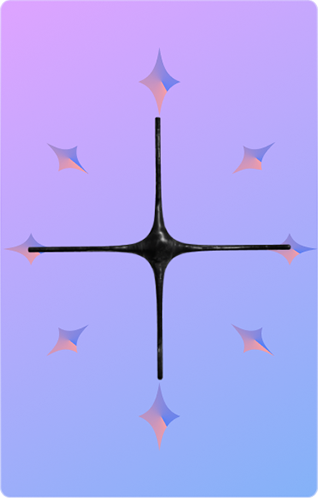
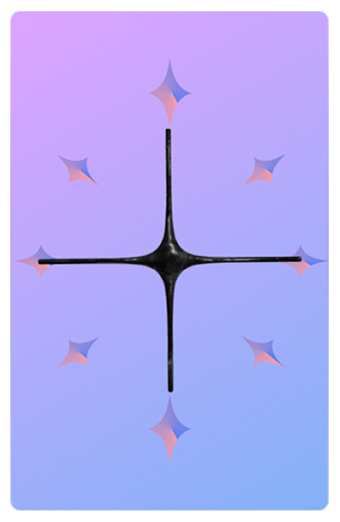
카드 에셋 변경, 중복카드 제거, 카드 컴포넌트 업데이트

diff --git a/src/assets/images/cards/index.ts b/src/assets/images/cards/index.ts
@@ -1,47 +1,71 @@
-import Card1Shadow from "./card1-shadow.png";
 import Card1Normal from "./card1-normal.png";
-import Card2Shadow from "./card2-shadow.png";
 import Card2Normal from "./card2-normal.png";
-import Card3Shadow from "./card3-shadow.png";
 import Card3Normal from "./card3-normal.png";
-import Card4Shadow from "./card4-shadow.png";
 import Card4Normal from "./card4-normal.png";
-import Card5Shadow from "./card5-shadow.png";
 import Card5Normal from "./card5-normal.png";
-import Card6Shadow from "./card6-shadow.png";
 import Card6Normal from "./card6-normal.png";
+
+import Card1Picked1 from "./card1-picked1.png";
+import Card1Picked2 from "./card1-picked2.png";
+import Card1Picked3 from "./card1-picked3.png";
+import Card2Picked1 from "./card2-picked1.png";
+import Card2Picked2 from "./card2-picked2.png";
+import Card2Picked3 from "./card2-picked3.png";
+import Card3Picked1 from "./card3-picked1.png";
+import Card3Picked2 from "./card3-picked2.png";
+import Card3Picked3 from "./card3-picked3.png";
+import Card4Picked1 from "./card4-picked1.png";
+import Card4Picked2 from "./card4-picked2.png";
+import Card4Picked3 from "./card4-picked3.png";
+import Card5Picked1 from "./card5-picked1.png";
+import Card5Picked2 from "./card5-picked2.png";
+import Card5Picked3 from "./card5-picked3.png";
+import Card6Picked1 from "./card6-picked1.png";
+import Card6Picked2 from "./card6-picked2.png";
+import Card6Picked3 from "./card6-picked3.png";
+
+import CardShadow from "./card-shadow.png";
 
 const cards: Record<
   string,
   {
-    shadow: string;
     normal: string;
+    filter: ColorCode;
+    picked: string[];
   }
 > = {
   card1: {
-    shadow: Card1Shadow,
     normal: Card1Normal,
+    filter: "#FF5A0D",
+    picked: [Card1Picked1, Card1Picked2, Card1Picked3],
   },
   card2: {
-    shadow: Card2Shadow,
     normal: Card2Normal,
+    filter: "#ECD34E",
+    picked: [Card2Picked1, Card2Picked2, Card2Picked3],
   },
   card3: {
-    shadow: Card3Shadow,
     normal: Card3Normal,
+    filter: "#0DFF7C",
+    picked: [Card3Picked1, Card3Picked2, Card3Picked3],
   },
   card4: {
-    shadow: Card4Shadow,
     normal: Card4Normal,
+    filter: "#7B61FF",
+    picked: [Card4Picked1, Card4Picked2, Card4Picked3],
   },
   card5: {
-    shadow: Card5Shadow,
     normal: Card5Normal,
+    filter: "#EC0DFF",
+    picked: [Card5Picked1, Card5Picked2, Card5Picked3],
   },
   card6: {
-    shadow: Card6Shadow,
     normal: Card6Normal,
+    filter: "#335BE9",
+    picked: [Card6Picked1, Card6Picked2, Card6Picked3],
   },
 };
 
 export default cards;
+
+export const shadow = CardShadow;

diff --git a/src/components/atoms/PhotoCard/PhotoCard.tsx b/src/components/atoms/PhotoCard/PhotoCard.tsx
@@ -3,6 +3,7 @@ import styled, { keyframes } from "styled-components";
 interface IPhotoCardProps {
   source: string;
   shadow?: string;
+  filter?: ColorCode;
   width?: `${number}vw`;
   activate?: boolean;
   onClick?: () => void;
@@ -11,6 +12,7 @@ interface IPhotoCardProps {
 function PhotoCard({
   source,
   shadow,
+  filter,
   width,
   activate,
   onClick,
@@ -18,7 +20,9 @@ function PhotoCard({
   return (
     <Card width={width} onClick={onClick}>
       <Photo activate={activate} src={source} draggable={false} alt="" />
-      {shadow && activate && <Shadow src={shadow} draggable={false} alt="" />}
+      {shadow && activate && (
+        <Shadow src={shadow} filter={filter} draggable={false} alt="" />
+      )}
     </Card>
   );
 }
@@ -27,12 +31,12 @@ export default PhotoCard;
 
 const Card = styled.div<{ width?: `${number}vw` }>`
   position: relative;
-  width: ${({ width }) => width && "27vw"};
+  width: ${({ width }) => width && "25vw"};
 `;
 
 const Photo = styled.img<{ activate?: boolean }>`
   object-fit: cover;
-  opacity: ${({ activate }) => (activate ? 1 : 0.35)};
+  opacity: ${({ activate }) => (activate ? 1 : 0.5)};
   transition: opacity 500ms;
   height: 100%;
   width: 100%;
@@ -50,13 +54,14 @@ const glow = keyframes`
   }
 `;
 
-const Shadow = styled.img<{ activate?: boolean }>`
+const Shadow = styled.img<{ activate?: boolean; filter?: ColorCode }>`
   object-fit: cover;
   position: absolute;
   inset: 0;
   height: 100%;
   width: 100%;
   animation: ${glow} 2s infinite linear alternate;
+  filter: drop-shadow(0 0 0 ${({ filter }) => filter ?? "#FFF"});
   z-index: -1;
-  pointer-event: none;
+  pointer-events: none;
 `;

diff --git a/src/components/molecules/StarRadioInput/StarRadioInput.tsx b/src/components/molecules/StarRadioInput/StarRadioInput.tsx
@@ -1,6 +1,6 @@
 import { Fragment } from "react";
 import styled from "styled-components";
-import { cards } from "~/assets/images";
+import { cards, cardShadow } from "~/assets/images";
 import PhotoCard from "~/components/atoms/PhotoCard";
 
 interface IStarRadioInputProps<T> {
@@ -30,7 +30,8 @@ function StarRadioInput<T>({
               <PhotoCard
                 key={`${index}::${value}`}
                 source={cards[value].normal}
-                shadow={cards[value].shadow}
+                shadow={cardShadow}
+                filter={cards[value].filter}
                 activate={data === value}
                 onClick={() => {
                   setData(value as T);
@@ -55,6 +56,7 @@ const Title = styled.div`
 const OptionGroupFrame = styled.div`
   display: grid;
   grid-template-columns: repeat(3, 1fr);
+  gap: 0.5rem;
   margin-top: 1rem;
   margin-bottom: 1rem;
 `;

diff --git a/src/assets/images/index.ts b/src/assets/images/index.ts
@@ -1,3 +1,3 @@
-import cards from "./cards";
+import cards, { shadow } from "./cards";
 
-export { cards };
+export { cards, shadow as cardShadow };
